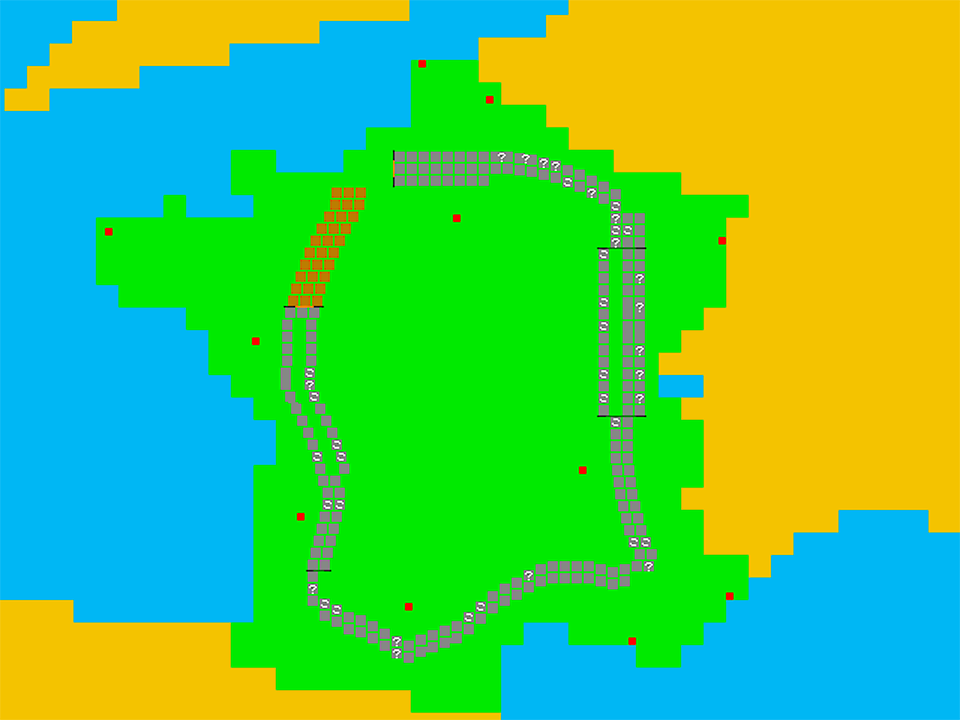
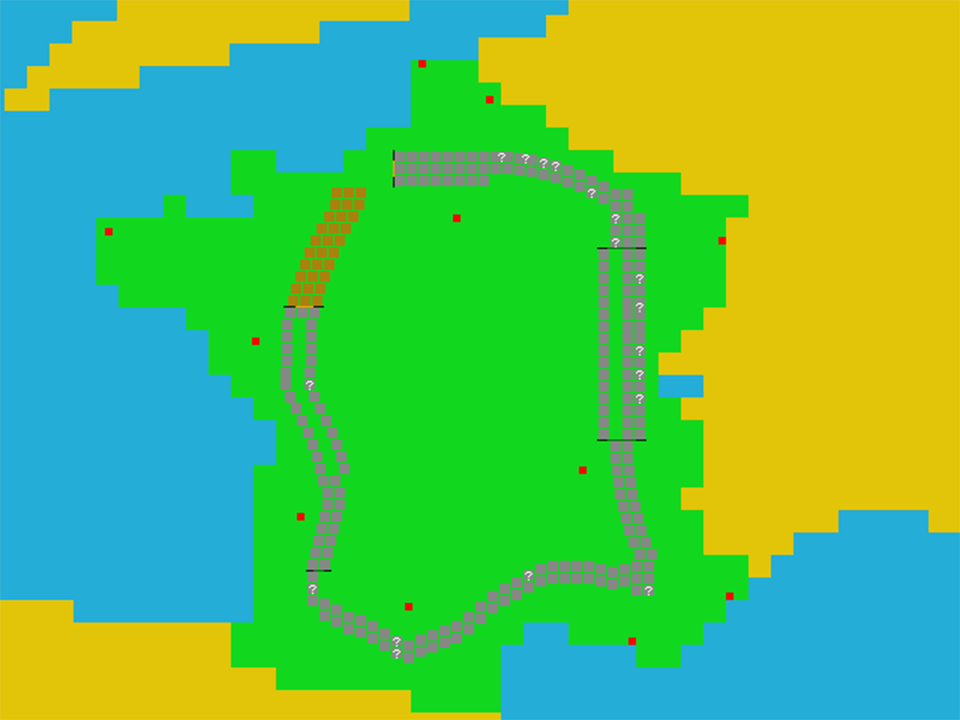
changed map + added coord

diff --git a/src/jeu.js b/src/jeu.js
@@ -75,33 +75,33 @@ let map = [[new Case(1,1,false,false, 321, -72),new Case(1,2,false,false, 321, -
             [new Case(8,1,false,false, 405, -72),new Case(8,2,false,false, 405, -60),new Case(8,3,false,false, 405, -48)],
             [new Case(9,1,true,false, 411, -72),new Case(9,2,false,false, 417, -60),new Case(9,3,false,false, 411, -48)],
             [new Case(10,1,true,false, 447, -70),new Case(10,2,false,false, 441, -59),new Case(10,3,false,false, 453, -57)],
-            [new Case(11,1,true,false),new Case(11,2,false,false)],
-            [new Case(12,1,true,false),new Case(12,2,false,false)],
-            [new Case(13,1,false,false),new Case(13,2,false,false)],
-            [new Case(14,1,false,false),new Case(14,2,false,false)],
-            [new Case(15,1,false,false),new Case(15,2,false,false)],
-            [new Case(16,1,false,false),new Case(16,2,true,false)],
-            [new Case(17,1,false,false),new Case(17,2,false,false)],
-            [new Case(18,1,false,false),new Case(18,2,false,false)],
-            [new Case(19,1,false,false),new Case(19,2,false,false),new Case(19,3,true,false)],
-            [new Case(20,1,false,false),new Case(20,2,false,false),new Case(20,3,false,false)],
-            [new Case(21,1,false,false),new Case(21,2,false,false),new Case(21,3,true,false)],
-            [new Case(22,1,false,false),new Case(22,2,false,false),"_",new Case(22,3,false,false)],
-            [new Case(23,1,false,false),new Case(23,2,false,false),"_",new Case(23,3,false,false)],
-            [new Case(24,1,true,false),new Case(24,2,false,false),"_",new Case(24,3,false,false)],
-            [new Case(25,1,false,false),new Case(25,2,false,false),"_",new Case(25,3,false,false)],
-            [new Case(26,1,true,false),new Case(26,2,false,false),"_",new Case(26,3,false,false),new Case(26,4,false,false)],
-            [new Case(27,1,false,false),new Case(27,2,false,false),"_",new Case(27,3,false,false), new Case(27,4,false,false)],
-            [new Case(28,1,true,false),new Case(28,2,false,false),"_",new Case(28,3,false,false)],
-            [new Case(29,1,false,false),new Case(29,2,false,false),"_",new Case(29,3,false,false)],
-            [new Case(30,1,true,false),new Case(30,2,false,false),"_",new Case(30,3,false,false)],
-            [new Case(31,1,false,false),new Case(31,2,false,false),"_",new Case(31,3,false,false)],
-            [new Case(32,1,true,false),new Case(32,2,false,false),"_",new Case(32,3,false,false)],
-            [new Case(33,1,false,false),new Case(33,2,false,false),"_",new Case(33,3,false,false)],
-            [new Case(34,1,true,false),new Case(34,2,false,false),"_",new Case(34,3,false,false)],
-            [new Case(35,1,false,false),new Case(35,2,false,false),"_",new Case(35,3,false,false)],
-            [new Case(36,1,false,false),new Case(36,2,false,false)],
-            [new Case(37,1,false,false),new Case(37,2,false,false)],
+            [new Case(11,1,true,false, 465, -65),new Case(11,2,false,false, 465, -53)],
+            [new Case(12,1,true,false, 477, -62),new Case(12,2,false,false, 477, -50)],
+            [new Case(13,1,false,false, 489, -58),new Case(13,2,false,false, 489, -46)],
+            [new Case(14,1,false,false, 501, -54),new Case(14,2,false,false, 501, -42)],
+            [new Case(15,1,false,false, 513, -48),new Case(15,2,false,false, 513, -36)],
+            [new Case(16,1,false,false, 525, -42),new Case(16,2,true,false, 525, -30)],
+            [new Case(17,1,false,false, 537, -34),new Case(17,2,false,false, 537, -22)],
+            [new Case(18,1,false,false, 549, -34),new Case(18,2,false,false, 549, -22)],
+            [new Case(19,1,false,false, 573, -10),new Case(19,2,false,false, 561, -10),new Case(19,3,true,false, 549, -10)],
+            [new Case(20,1,false,false, 573, 2),new Case(20,2,false,false, 561, 2),new Case(20,3,false,false, 549, 2)],
+            [new Case(21,1,false,false, 573, 14),new Case(21,2,false,false, 561, 14),new Case(21,3,true,false, 549, 14)],
+            [new Case(22,1,false,false, 573, 26),new Case(22,2,false,false, 561, 26),"_",new Case(22,3,false,false, 537, 26)],
+            [new Case(23,1,false,false, 573, 38),new Case(23,2,false,false, 561, 38),"_",new Case(23,3,false,false, 537, 38)],
+            [new Case(24,1,true,false, 573, 50),new Case(24,2,false,false, 561, 50),"_",new Case(24,3,false,false, 537, 50)],
+            [new Case(25,1,false,false, 573, 62),new Case(25,2,false,false, 561, 62),"_",new Case(25,3,false,false, 537, 62)],
+            [new Case(26,1,true,false, 573, 80),new Case(26,2,false,false, 561, 80),"_",new Case(26,3,false,false, 537, 74),new Case(26,4,false,false, 537, 86)],
+            [new Case(27,1,false,false, 573, 98),new Case(27,2,false,false, 561, 98),"_",new Case(27,3,false,false, 537, 92), new Case(27,4,false,false, 537, 104)],
+            [new Case(28,1,true,false, 573, 116),new Case(28,2,false,false, 561, 116),"_",new Case(28,3,false,false, 537, 116)],
+            [new Case(29,1,false,false, 573, 128),new Case(29,2,false,false, 561, 128),"_",new Case(29,3,false,false, 537, 128)],
+            [new Case(30,1,true,false, 573, 140),new Case(30,2,false,false, 561, 140),"_",new Case(30,3,false,false, 537, 140)],
+            [new Case(31,1,false,false, 573, 152),new Case(31,2,false,false, 561, 152),"_",new Case(31,3,false,false, 537, 152)],
+            [new Case(32,1,true,false, 573, 164),new Case(32,2,false,false, 561, 164),"_",new Case(32,3,false,false, 537, 164)],
+            [new Case(33,1,false,false, 573, 176),new Case(33,2,false,false, 561, 176),"_",new Case(33,3,false,false, 537, 176)],
+            [new Case(34,1,true,false, 573, 188),new Case(34,2,false,false, 561, 188),"_",new Case(34,3,false,false, 537, 188)],
+            [new Case(35,1,false,false, 573, 200),new Case(35,2,false,false, 561, 200),"_",new Case(35,3,false,false, 537, 200)],
+            [new Case(36,1,false,false, 549, 212),new Case(36,2,false,false, 561, 212)],
+            [new Case(37,1,false,false, 549, 224),new Case(37,2,false,false, 549, 224)],
             [new Case(38,1,false,false),new Case(38,2,false,false)],
             [new Case(39,1,false,false),new Case(39,2,false,false)],
             [new Case(40,1,false,false),new Case(40,2,false,false)],
